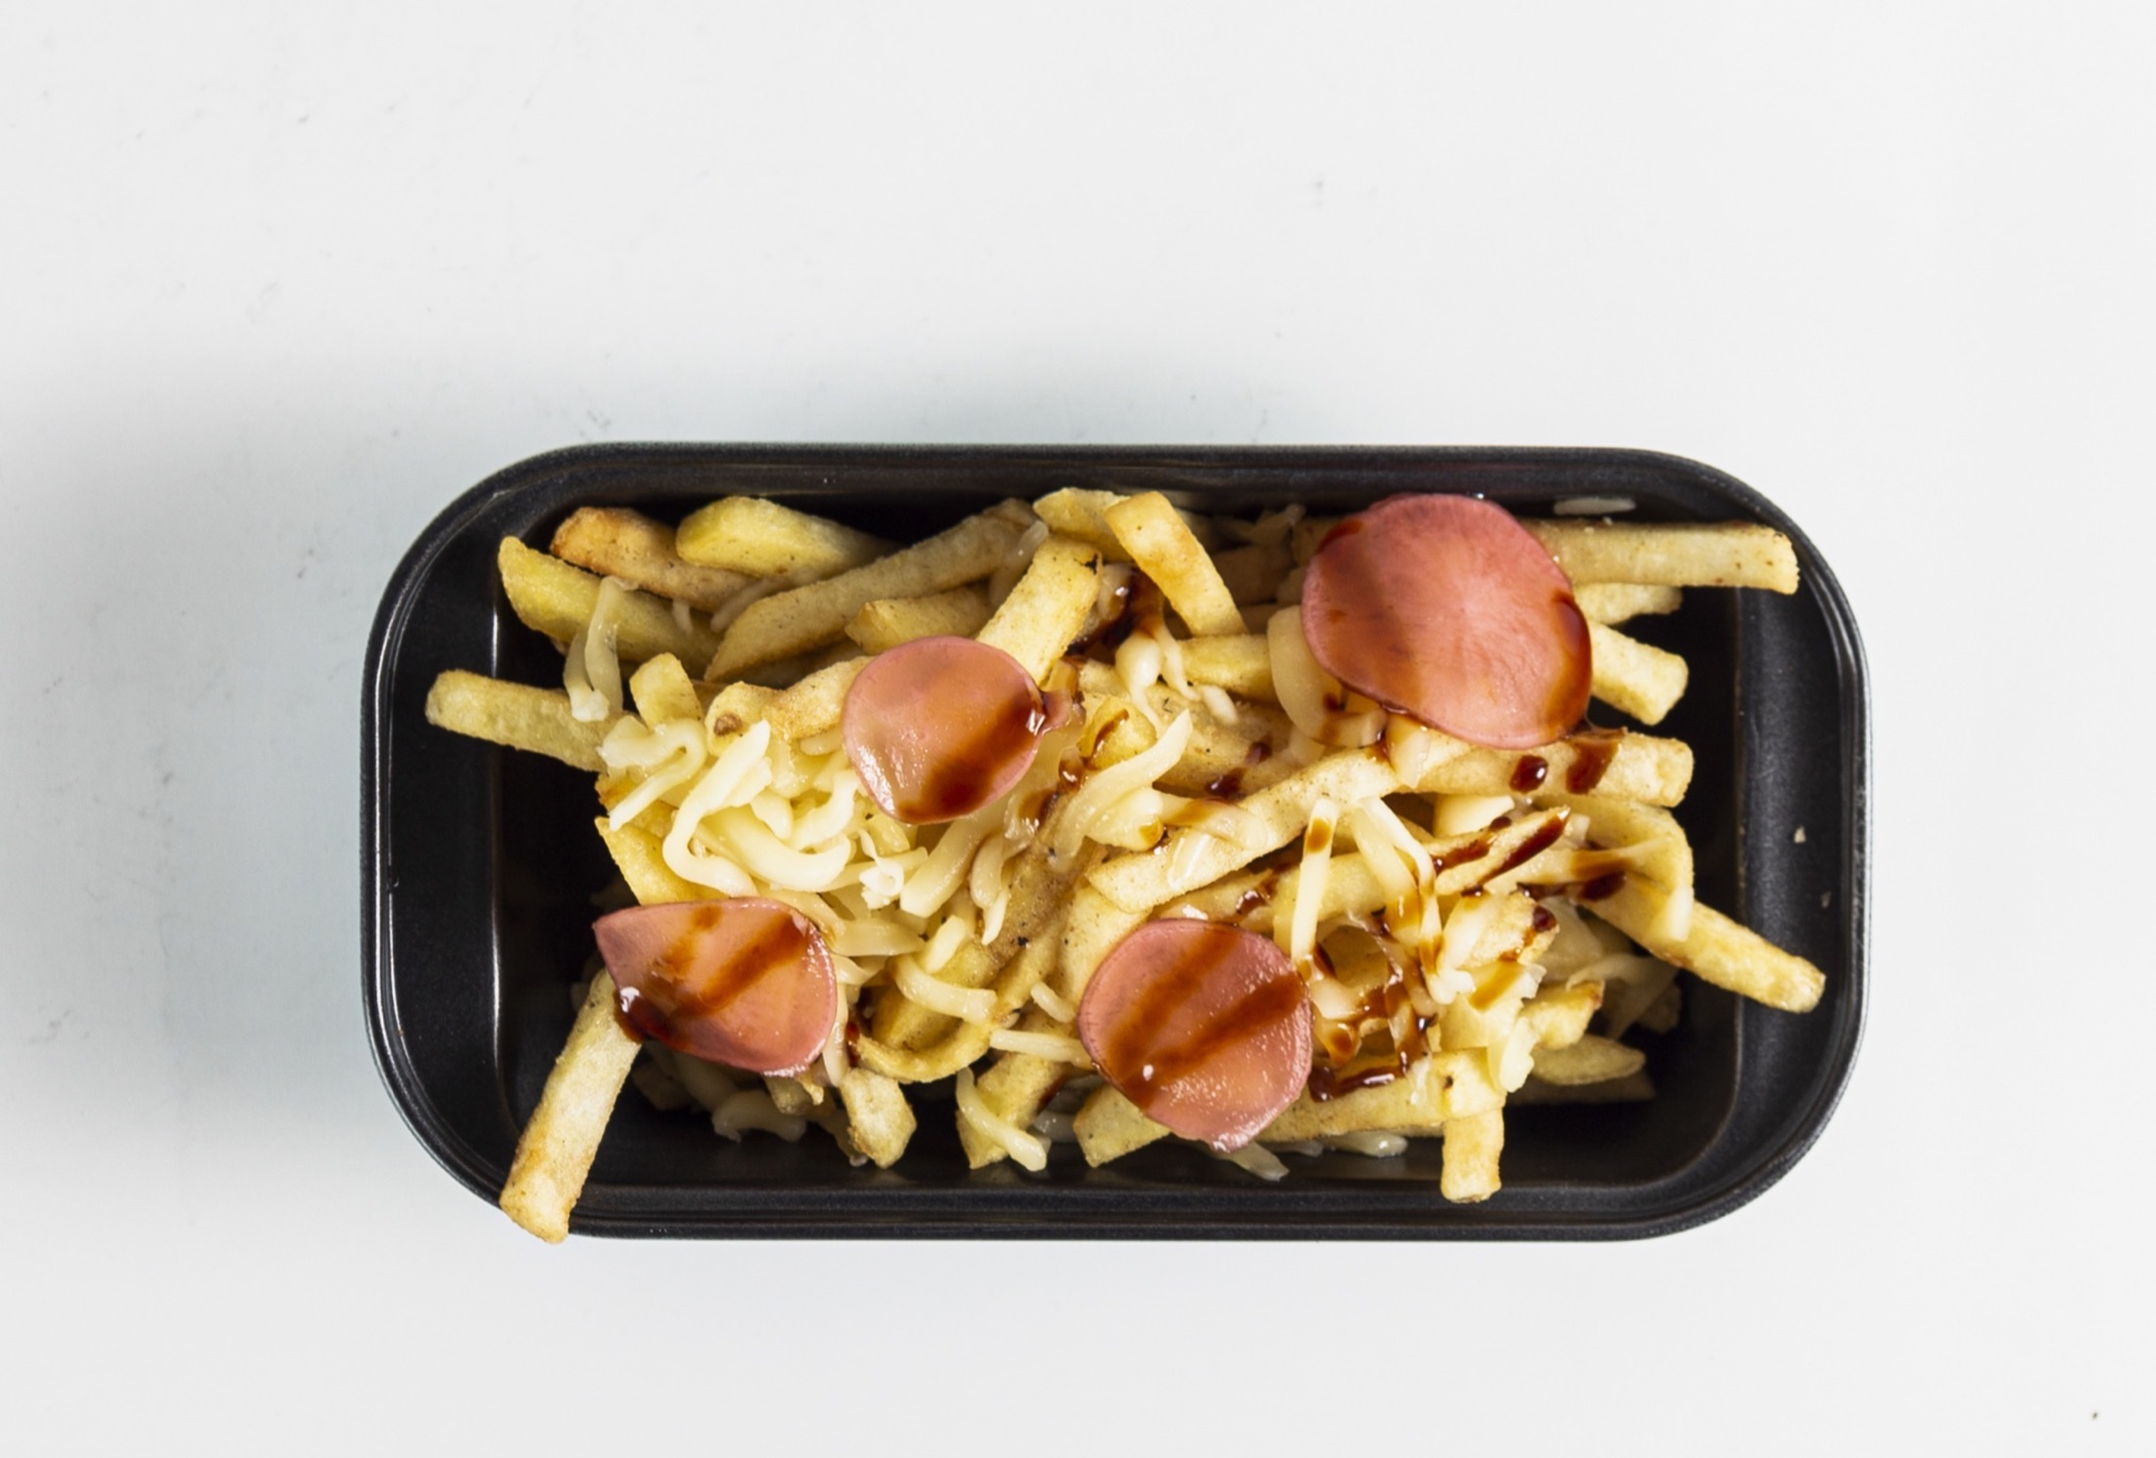
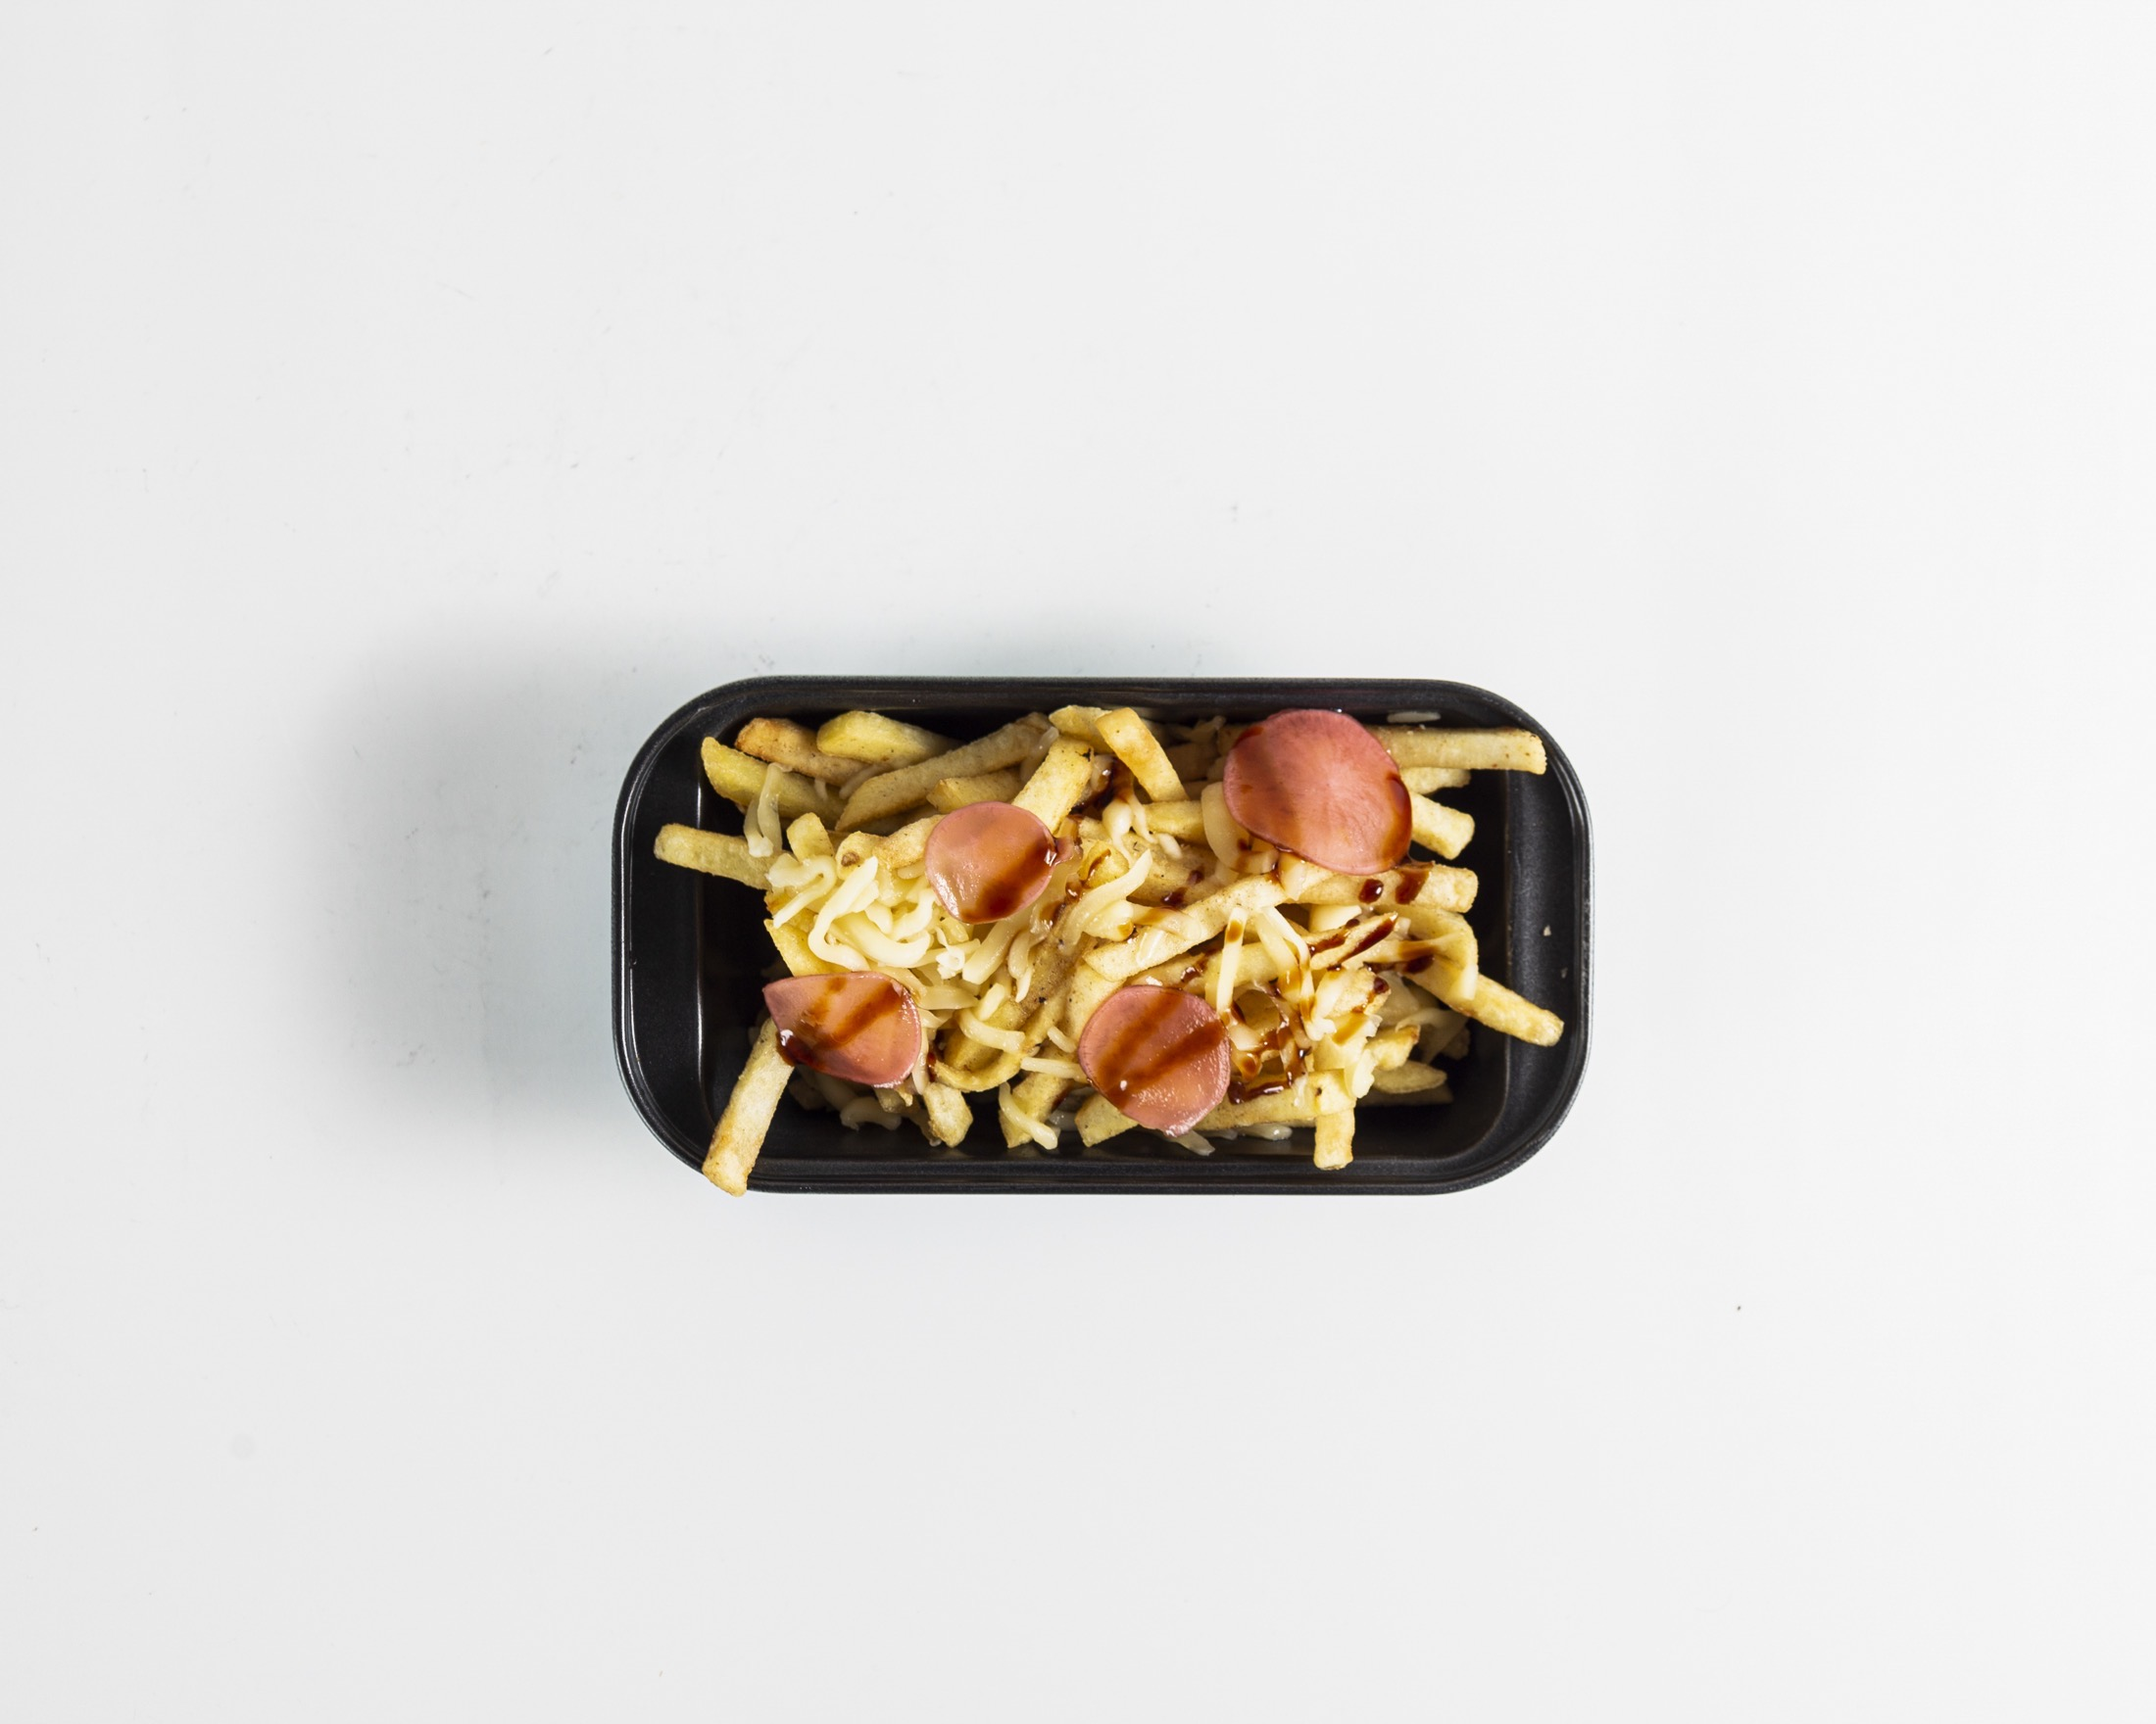
Revertir plato-04 al encuadre original y ajustar posicion de plato-10

diff --git a/index.html b/index.html
@@ -116,7 +116,7 @@
         <div class="photo" data-filename="plato-07.jpg"><img src="fotos/plato-07.jpg" alt="Plato de restaurante, fotografía gastronómica 07" width="900" height="1125" loading="lazy" onerror="handleImgError(this)"></div>
         <div class="photo" data-filename="plato-08.jpg"><img src="fotos/plato-08.jpg" alt="Plato de restaurante, fotografía gastronómica 08" width="900" height="1125" loading="lazy" onerror="handleImgError(this)"></div>
         <div class="photo" data-filename="plato-09.jpg"><img src="fotos/plato-09.jpg" alt="Plato de restaurante, fotografía gastronómica 09" width="900" height="1125" loading="lazy" onerror="handleImgError(this)"></div>
-        <div class="photo" data-filename="plato-10.jpg"><img src="fotos/plato-10.jpg" alt="Plato de restaurante, fotografía gastronómica 10" width="900" height="1125" loading="lazy" onerror="handleImgError(this)"></div>
+        <div class="photo" data-filename="plato-10.jpg"><img src="fotos/plato-10.jpg" alt="Plato de restaurante, fotografía gastronómica 10" width="900" height="1125" loading="lazy" style="object-position: 15% 50%;" onerror="handleImgError(this)"></div>
       </div>
     </div>
 
